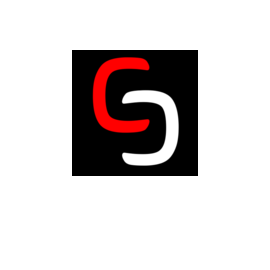
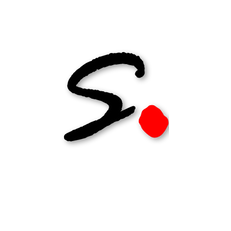
Auto commit

Changed region(s): [[0.2424, 0.1818, 0.7576, 0.6667]]

diff --git a/_includes/header.html b/_includes/header.html
@@ -8,11 +8,11 @@
     <div class="main">
       <div class="header__title">
         <div class="header__brand">
-          {%- include svg/logo.svg -%}
+          {%- include svg/logo.png -%}
           {%- assign _paths_root = site.paths.root | default: site.data.variables.default.paths.root  -%}
           {%- include snippets/get-nav-url.html path=_paths_root -%}
           {%- if site.title -%}
-            <a title="{%- if site.description -%}{{ site.description }}{%- endif -%}" href="{{ __return }}">{{ site.title }}</a>
+            <a title="{%- if site.description -%}{{ site.description }}{%- endif -%}" href="{{ __return }}" style="font-family:'Rage'; font-size:50px;">{{ site.title }} <span style="color:red;font-size:80px;">.</span></a>
           {%- endif -%}
         </div>
         {%- if site.search.provider -%}

diff --git a/_includes/head.html b/_includes/head.html
@@ -24,6 +24,8 @@
 {% seo %}
 {%- include head/custom.html -%}
 
+<link href="https://fonts.googleapis.com/css2?family=Just+Me+Again+Down+Here&family=Mansalva&family=Reenie+Beanie&family=Rock+Salt&display=swap" rel="stylesheet">
+
 <!-- Global site tag (gtag.js) - Google Analytics -->
 <script async src="https://www.googletagmanager.com/gtag/js?id=UA-180305527-1"></script>
 <script>

diff --git a/_includes/head/favicon.html b/_includes/head/favicon.html
@@ -24,3 +24,4 @@
 
 <meta name="theme-color" content="#ffffff">
 <!-- end favicons snippet -->
+ 
